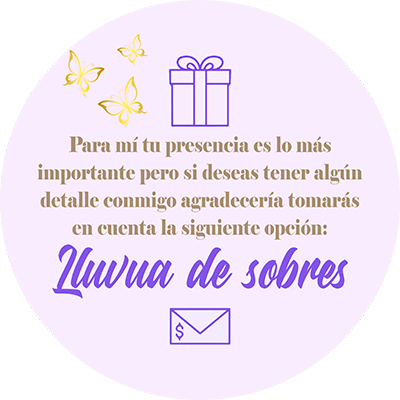
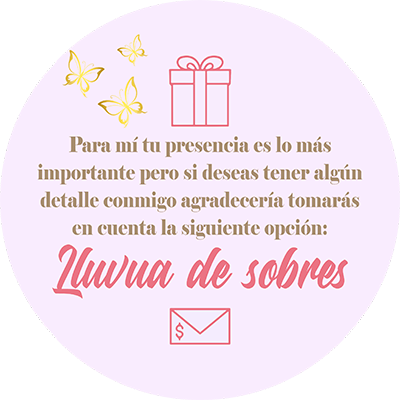
s
s

Changed region(s): [[0.12, 0.6, 0.87, 0.75], [0.42, 0.12, 0.6, 0.33], [0.42, 0.75, 0.6, 0.87]]

diff --git a/index.html b/index.html
@@ -227,7 +227,7 @@
             <div class="m_0a d_block max_wpx_500 color_black box_shadow_dark">
                 <div class="py_50 px_20 bg_pink_pastel color_black">
 
-                    <img src="regalo.png" class="w_100">
+                    <img src="dress.png" class="w_100">
                     
 
                 </div>
